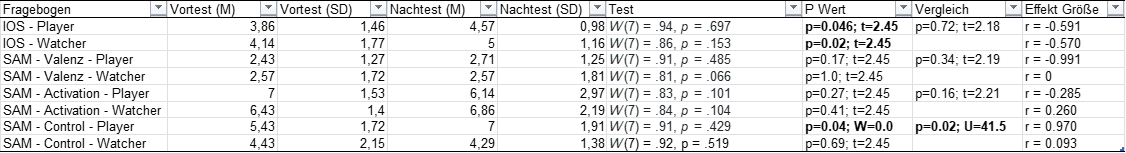
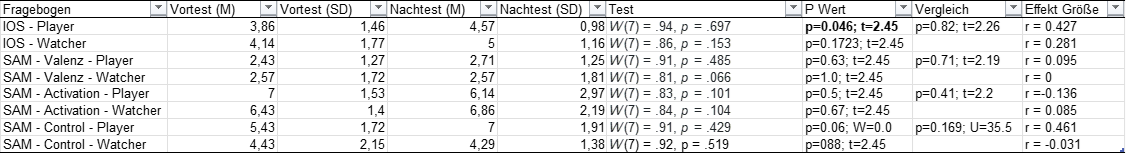
Updates from Overleaf

diff --git a/content/chapters/study.tex b/content/chapters/study.tex
@@ -31,7 +31,7 @@ Um die Usability der Anwendung zu evaluieren wurde der \ac{SUS} (vgl. \cite{broo
 
 Für die Gewinnung des affektiven Status der Probanden zu beginn des Tests und am Ende wurde der \ac{SAM} (vgl. \cite{russell_evidence_1977}) gewählt, da dieser den Gemütszustand in Valenz, Erregung und Dominanz abbildet. Diese Gemütszustände können einen Einfluss auf die Kommunikation der Probanden ausüben. Der \ac{IOS} (vgl. \cite{gachter_measuring_2015}) wurde gewählt, um eine subjektive Meinung der Probanden darüber zu erhalten wie seine Beziehung zu seinem Partner ist. Der \ac{IOS} erzeugt aus dem subjektiven Gefühl der Probanden eine quantisierbare Antwort, welche verglichen werden kann. Der Fragebogen zum Thema Leadership von \cite{emmerich_game_2016} wurde ebenfalls ausgewählt, da dieser die Führung der Personen innerhalb der Konversation zeigen soll. 
 % [TODO: Hier in diesem Abschnitt muss noch auf die Kommunikationsparememter wie Trust, Empathie und so eingegangen werden. Außerdem fehlt noch der Questionaire zur Affekltiven Empathie]
-Das Verhalten von Personen zueinander kann von vielen verschiedenen Faktoren abhängig sein. In der bestehenden Forschung wurde dabei der Fokus unter anderem auf die soziale Nähe, das Zwischenmenschliche Vertrauen oder die Empathie gelegt. In dieser Nutzerstudie liegt der Fokus auf der sozialen Nähe der Personen zueinander, dem Zustand wie sich die Probanden selber fühlen und wie sich dieses Empfinden auf die kognitive Empathie auswirkt. In diesem Szenario geht es um die Kommunikation miteinander, wodurch das Verstehen wie mit dem anderen gesprochen werden muss von großer Relevanz ist.
+Das Verhalten von Personen zueinander kann von vielen verschiedenen Faktoren abhängig sein. In der bestehenden Forschung wurde dabei der Fokus unter anderem auf die soziale Nähe, das Zwischenmenschliche Vertrauen oder die Empathie gelegt. In dieser Nutzerstudie liegt der Fokus auf der sozialen Nähe der Personen zueinander, dem Zustand wie sich die Probanden selber fühlen und wie sich dieses Empfinden auf die kognitive Empathie auswirkt. In diesem Szenario geht es um die Kommunikation miteinander, wodurch das Verstehen wie mit dem anderen gesprochen werden muss von großer Relevanz ist. [TODO: kann man nochmal schöner schjreiben um klar zu machen welche kommunikationsparameter wichtig sind]
 
 Zusätzlich wurde ein eigenständiger Fragebogen erstellt, durch welchen die Meinung der Probanden zum Thema Spielen mit Fremden eingeholt werden soll. Dieser befindet sich in Anhang \ref{}. Für die Erfassung der demografischen Daten wurde ebenfalls ein speziell für das Thema dieser Arbeit entworfener Fragebogen erstellt und verwendet. Außerdem mussten sich die Probanden einem der vier Spielertypen von \cite{bartle_hearts_1996} zuordnen. Sie sind die Grundlage der vorgeführten Forschung der Spielertypen und decken die wichtigsten Aspekte des Spiels ab. Außerdem ist das Nutzen einer anderen Taxonomie in Bezug auf die genauerer Unterteilung der Spielerrollen nicht zielführend, da bei einer kleinen Probandenmenge die Anzahl der einzelnen Spielerrollen gering sein wird. Um aus den Spielerrollen Hinweise über den Forschungsschwerpunkt erzielen zu können, ist eine wiederholende Anzahl an Spielertypen hilfreich.
 
@@ -217,19 +217,25 @@ Im Folgenden werden die Ergebnisse zur subjektiven Wahrnehmung der Probanden im 
 \label{fig:ios_sam_overal}
 \end{figure}
 
-Abbildung \ref{fig:ios_sam_overal} zeigt die Ergebnisse des \ac{IOS}' und \ac{SAM}s. Der analysierte Datensatz umfasst sowohl die Antworten der Player als auch der Watcher. Eine Unterscheidung der Entwicklung in den einzelnen Rollen erfolgt im zweiten Schritt.
+Abbildung \ref{fig:ios_sam_overal} zeigt die Ergebnisse des \ac{IOS}' und \ac{SAM}s. Der analysierte Datensatz umfasst sowohl die Antworten der Player als auch der Watcher. Eine Unterscheidung der Entwicklung in den einzelnen Rollen erfolgt im zweiten Schritt in Abbildung \ref{fig:ios_sam_roles}.
 
-Zunächst wurden die Datensätze (der gesamte und seine Untergruppen) auf eine Normalverteilung überprüft. Dies erfolgte im gesamten Datensatz über den  Kolmogorov-Smirnov-Test (vgl. \cite{massey_kolmogorov-smirnov_1951}). Für die geteilten Datensätze wurden wie bei den Fragebögen zum Prototyp visuelle \ac{Q-Q}-Diagramme angelegt und anschließend über den Shapiro-Wilk-Test auf eine Normalverteilung validiert.
+Zunächst wurden die Datensätze (der gesamte und seine Untergruppen) auf eine Normalverteilung überprüft. Dies erfolgte im gesamten Datensatz über den  Kolmogorov-Smirnov-Test (vgl. \cite{massey_kolmogorov-smirnov_1951}). Für die geteilten Datensätze wurden wie bei den Fragebögen zum Prototyp visuelle \ac{Q-Q}-Diagramme angelegt und anschließend über den Shapiro-Wilk-Test auf eine Normalverteilung untersucht.
 
-Insofern die Datensätze vom Vor- und Nachtest in Normalverteilung vorlagen, wurde der t-Test für abhängige Stichproben durchgeführt, um zu bestimmen ob die vorliegende Änderung signifikant ist. Außerdem wurde die Effekt Stärke der Datensätze bestimmt. Für nicht-parametrische Datensätze wurde der Wilcoxon-Test angewandt.
+Insofern die Datensätze vom Vor- und Nachtest in Normalverteilung vorlagen, wurde der t-Test für abhängige Stichproben durchgeführt, um zu bestimmen ob die vorliegende Änderung signifikant ist. Außerdem wurde die Effekt-Größe der Datensätze bestimmt. Für nicht-parametrische Datensätze wurde der Wilcoxon-Test für abhängige Stichproben angewandt.
 
 Zusätzlich wurden die Untergruppen auf den Vergleich der Veränderungen untersucht, um feststellen zu können, welche Untergruppe eine stärkere Entwicklung vorlegen konnte. Für parametrisierte Untergruppen wurde der Welch-Test angewandt, für nicht-parametrisierte der Mann-Whitney-U-Test.
 
 \paragraph{Allgemeine Auswertung}
 
-Zunächst ist zu beobachten, dass die empfundene Nähe der jeweiligen Probanden-Paare, die über den \ac{IOS} gemessen wurde, im Mittelwert ansteigt. Dies ist eine signifikante Veränderung, die belegt, dass sich die Probanden innerhalb des Versuchsaufbaus besser kennenlernen konnte und der Prototyp dabei ebenfalls eine Rolle gespielt hat. Es zeigte sich 
+Zunächst ist zu beobachten, dass die empfundene Nähe der jeweiligen Probanden-Paare, die über den \ac{IOS} gemessen wurde, im Mittelwert ansteigt. Diese Änderung ist signifikant und zeigt, dass zu den jeweiligen Testzeitpunkten die soziale Nähe der Probanden gestiegen ist. Es besteht hierbei eine mittlere Korrelation.
 
-Die Valenz, also das Empfinden von positiver oder negativer Emotionen, (Wertung von 1 = glücklich bis 9 = unglücklich) stieg leicht an. Dies kann durch Frustration in den jeweiligen Vor- und Nachtests oder der Usability des Prototyps verursacht worden sein. Die Änderung der Valenz ist jedoch nicht signifikant. Die Activation bzw. die Anspannung (Wertung von 1 = aufgeregt bis 9 = entspannt) der Teilnehmer stieg ebenfalls leicht an. Diese Änderung ist ebenfalls nicht signifikant. Die entstandene Anspannung der Probanden kann durch die zeitlichen Begrenzungen, in welchen sie den Prototyp und die Vergleichstest durchführen müssen erklärt werden. Außerdem kann der zuvor erlittene Erfolg oder Frust über das Lösen oder nicht Lösens des Nachtests ebenfalls eine Rolle spielen. Der Abschnitt des Controls, der Dominanz der Probanden, (Wertung von 1 = kontrolliert bis 9 = in Kontrolle) steigt ebenfalls an. Allerdings ist dies ebenfalls keine signifikante Änderung. Die Wachsende Dominanz kann man dem wachsendem Selbstvertrauen, das die einzelnen Probanden im Verlauf des Experiments entwickeln konnten, zusammenhängen. Die Probanden lernen sich besser kennen und versuchen durch die Herausforderung der Vergleichstest das Ziel zu erreichen.
+Die Valenz, also das Empfinden von positiver oder negativer Emotionen, (Wertung von 1 = glücklich bis 9 = unglücklich) steigt im Mittelwert leicht an. Außerdem steigt die Standardabweichung ebenfalls leicht an, wodurch die Einzelwerte der Stichprobe sich ein wenig gestreut haben. Dies kann durch Frustration in den jeweiligen Vor- und Nachtests oder der Usability des Prototyps verursacht worden sein. Die Änderung der Valenz ist jedoch nicht signifikant und zeigt eine sehr kleine Korrelation. 
+
+Die Activation bzw. die Anspannung (Wertung von 1 = aufgeregt bis 9 = entspannt) der Teilnehmer stieg im Mittelwert ebenfalls leicht an. Die Probanden sind nach dem Test aufgeregter als zuvor. Jedoch zeigt die höhere Standardabweichung im Nachtest, dass die Eindrücke weiter verstreut liegen, als im Vortest.  Diese Änderung ist ebenfalls nicht signifikant. Sie zeigt auch eine sehr kleine negative Korrelation. Die entstandene Anspannung der Probanden kann durch die zeitlichen Begrenzungen, in welchen sie den Prototyp und die Vergleichstest durchführen müssen, erklärt werden. Außerdem kann der zuvor erlittene Erfolg oder Frust über das Lösen oder nicht Lösens des Nachtests ebenfalls eine Rolle spielen. 
+
+Der Abschnitt des Controls, der Dominanz der Probanden, (Wertung von 1 = kontrolliert bis 9 = in Kontrolle) steigt ebenfalls an. Allerdings ist dies ebenfalls keine signifikante Änderung. Es konnte nur eine kleine Korrelation festgestellt werden. Die Wachsende Dominanz kann man dem wachsendem Selbstvertrauen, das die einzelnen Probanden im Verlauf des Experiments entwickeln konnten, zusammenhängen. Die Probanden lernen sich besser kennen und versuchen durch die Herausforderung der beiden Tests das Ziel zu erreichen.
+
+
 
 \paragraph{Auswertung in der Unterscheidung zwischen Player und Watcher}
 
@@ -240,11 +246,11 @@ Die Valenz, also das Empfinden von positiver oder negativer Emotionen, (Wertung 
 \label{fig:ios_sam_roles}
 \end{figure}
 
-Abbildung \ref{fig:ios_sam_roles} zeigt die Ergebnisse des \ac{IOS}' und \ac{SAM}s. Hierbei wurden nun der gesamte Datensatz in seine zwei Untergruppen, Player und Watcher, geteilt und getrennt ausgewertet. Es zeigt sich, dass der signifikante Unterschied in der Entwicklung der sozialen Nähe der Probanden zueinander auch in den einzelnen Rollen signifikant ist. Außerdem konnte kein signifikanter Unterschied zwischen den Rollen des Players und Watchers im Verlauf der Tests nachgewiesen werden.
+Hierbei wurden nun der gesamte Datensatz in seine zwei Untergruppen, Player und Watcher, geteilt und getrennt ausgewertet. Es zeigt sich, dass der signifikante Unterschied in der Entwicklung der sozialen Nähe nur bei den Probanden der Player-Rolle signifikant ist. Ebenfalls ist bei der Player-Rolle die Korrelation höher, als bei der denen der Watcher. 
 
-Wie im gesamte Datensatz bereits festgestellt wurde, konnten auch in den Untergruppen in Bezug auf die Valenz und Activation des \ac{SAM}s kein signifikanter Unterschied festgestellt werden. Im Vergleich zwischen den Probanden des Players und Watchers konnte ebenfalls kein signifikanter Unterschied festgestellt werden.
+% Wie im gesamte Datensatz bereits festgestellt wurde, konnten auch in den Untergruppen in Bezug auf die Valenz und Activation des \ac{SAM}s kein signifikanter Unterschied festgestellt werden. Im Vergleich zwischen den Probanden des Players und Watchers konnte ebenfalls kein signifikanter Unterschied festgestellt werden.
 
-Anders ist es bei der Kategorie Dominanz (Control) des \ac{SAM}s. Bei den Probanden der Player-Untergruppe gibt es eine signifikante Änderung in Bezug auf das Dominanz-Verhalten. Sie fühlten sich nach den Tests deutlich dominanter. Ob hierbei die Anwendung des Players einen Einfluss hat, oder ob die entsprechende Personen durch das nähere Kennenlernen seines Partners nun dominanter auftritt kann hierbei nicht identifiziert werden. Diese signifikante Änderung konnte auch im Vergleich mit der Watcher-Untergruppe festgestellt werden.
+% Anders ist es bei der Kategorie Dominanz (Control) des \ac{SAM}s. Bei den Probanden der Player-Untergruppe gibt es eine signifikante Änderung in Bezug auf das Dominanz-Verhalten. Sie fühlten sich nach den Tests deutlich dominanter. Ob hierbei die Anwendung des Players einen Einfluss hat, oder ob die entsprechende Personen durch das nähere Kennenlernen seines Partners nun dominanter auftritt kann hierbei nicht identifiziert werden. Diese signifikante Änderung konnte auch im Vergleich mit der Watcher-Untergruppe festgestellt werden.
 
 \subsection{Vorstellung der Ergebnisse der Quantisierung der Gesprächsflüsse}
 
